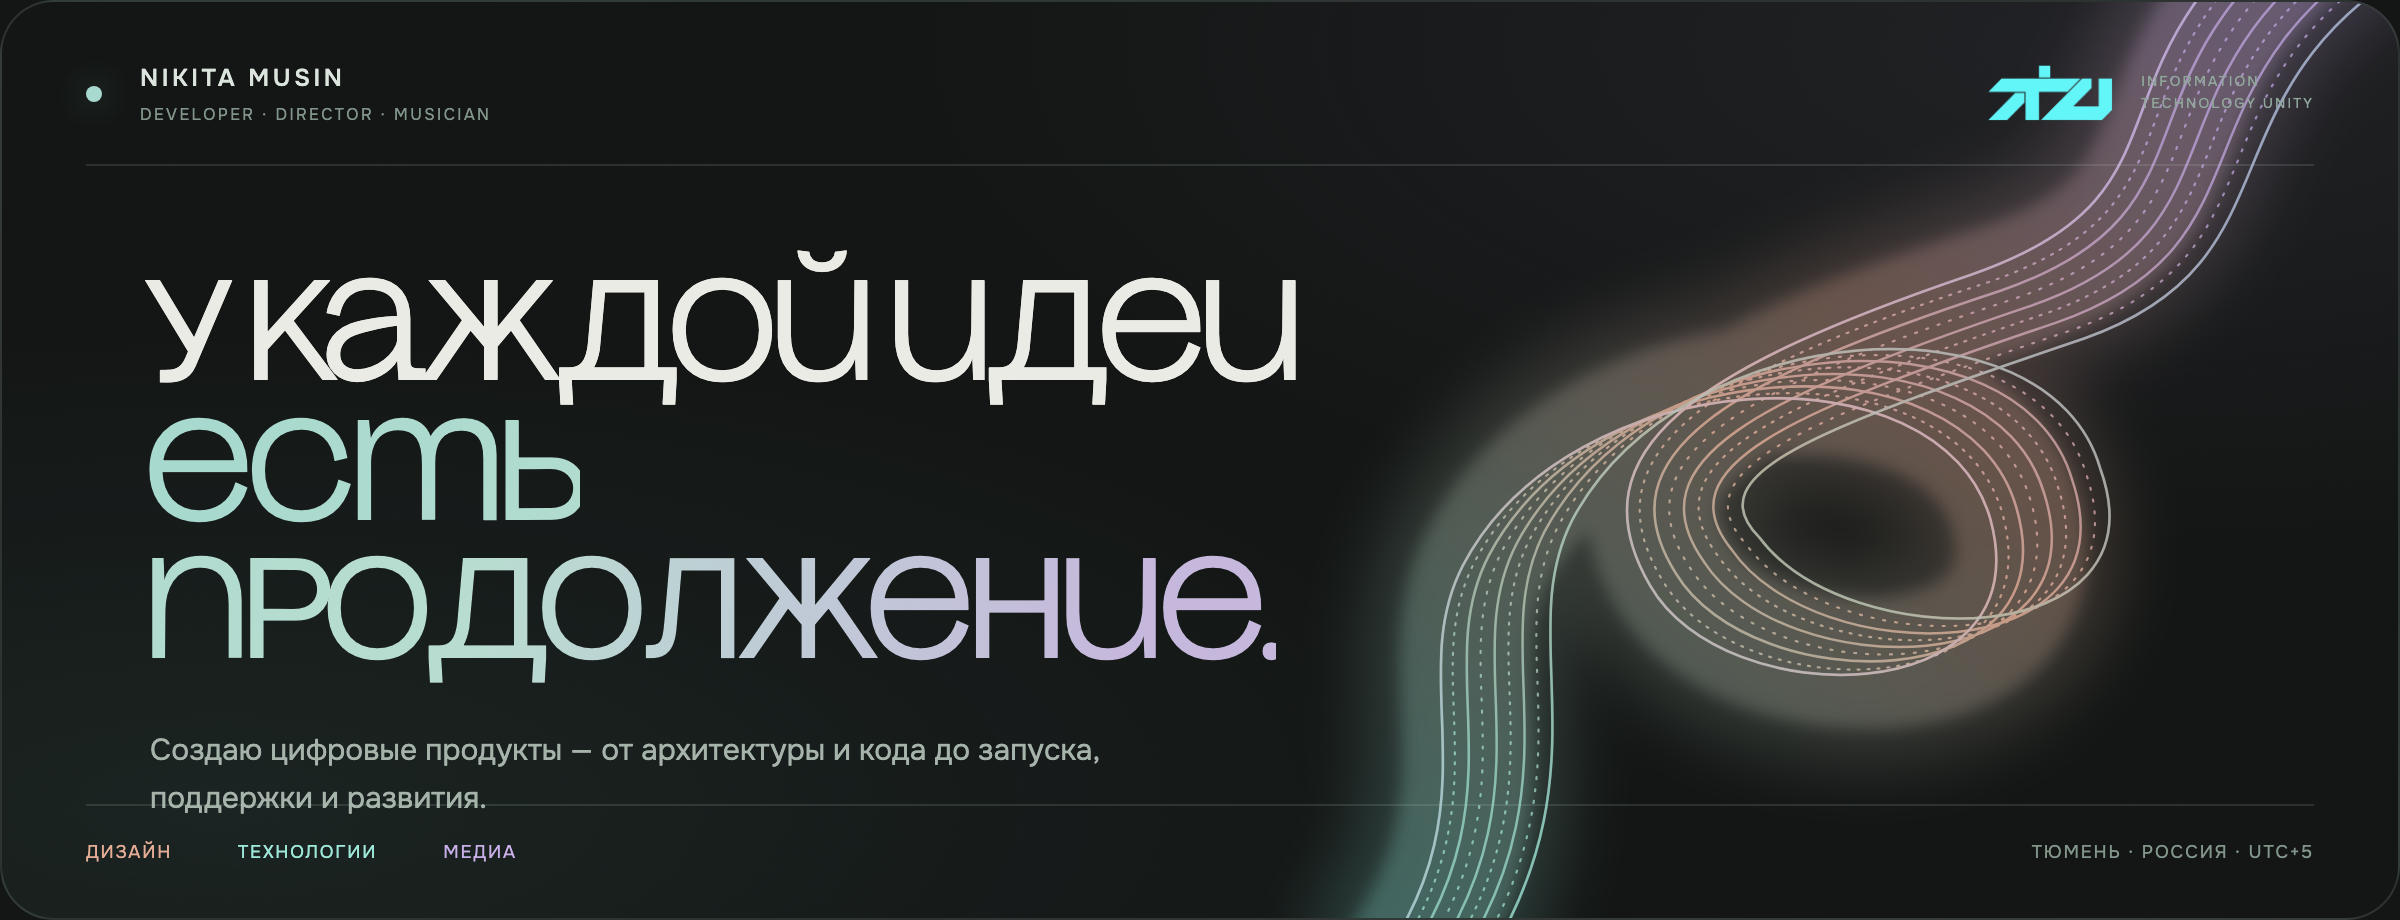
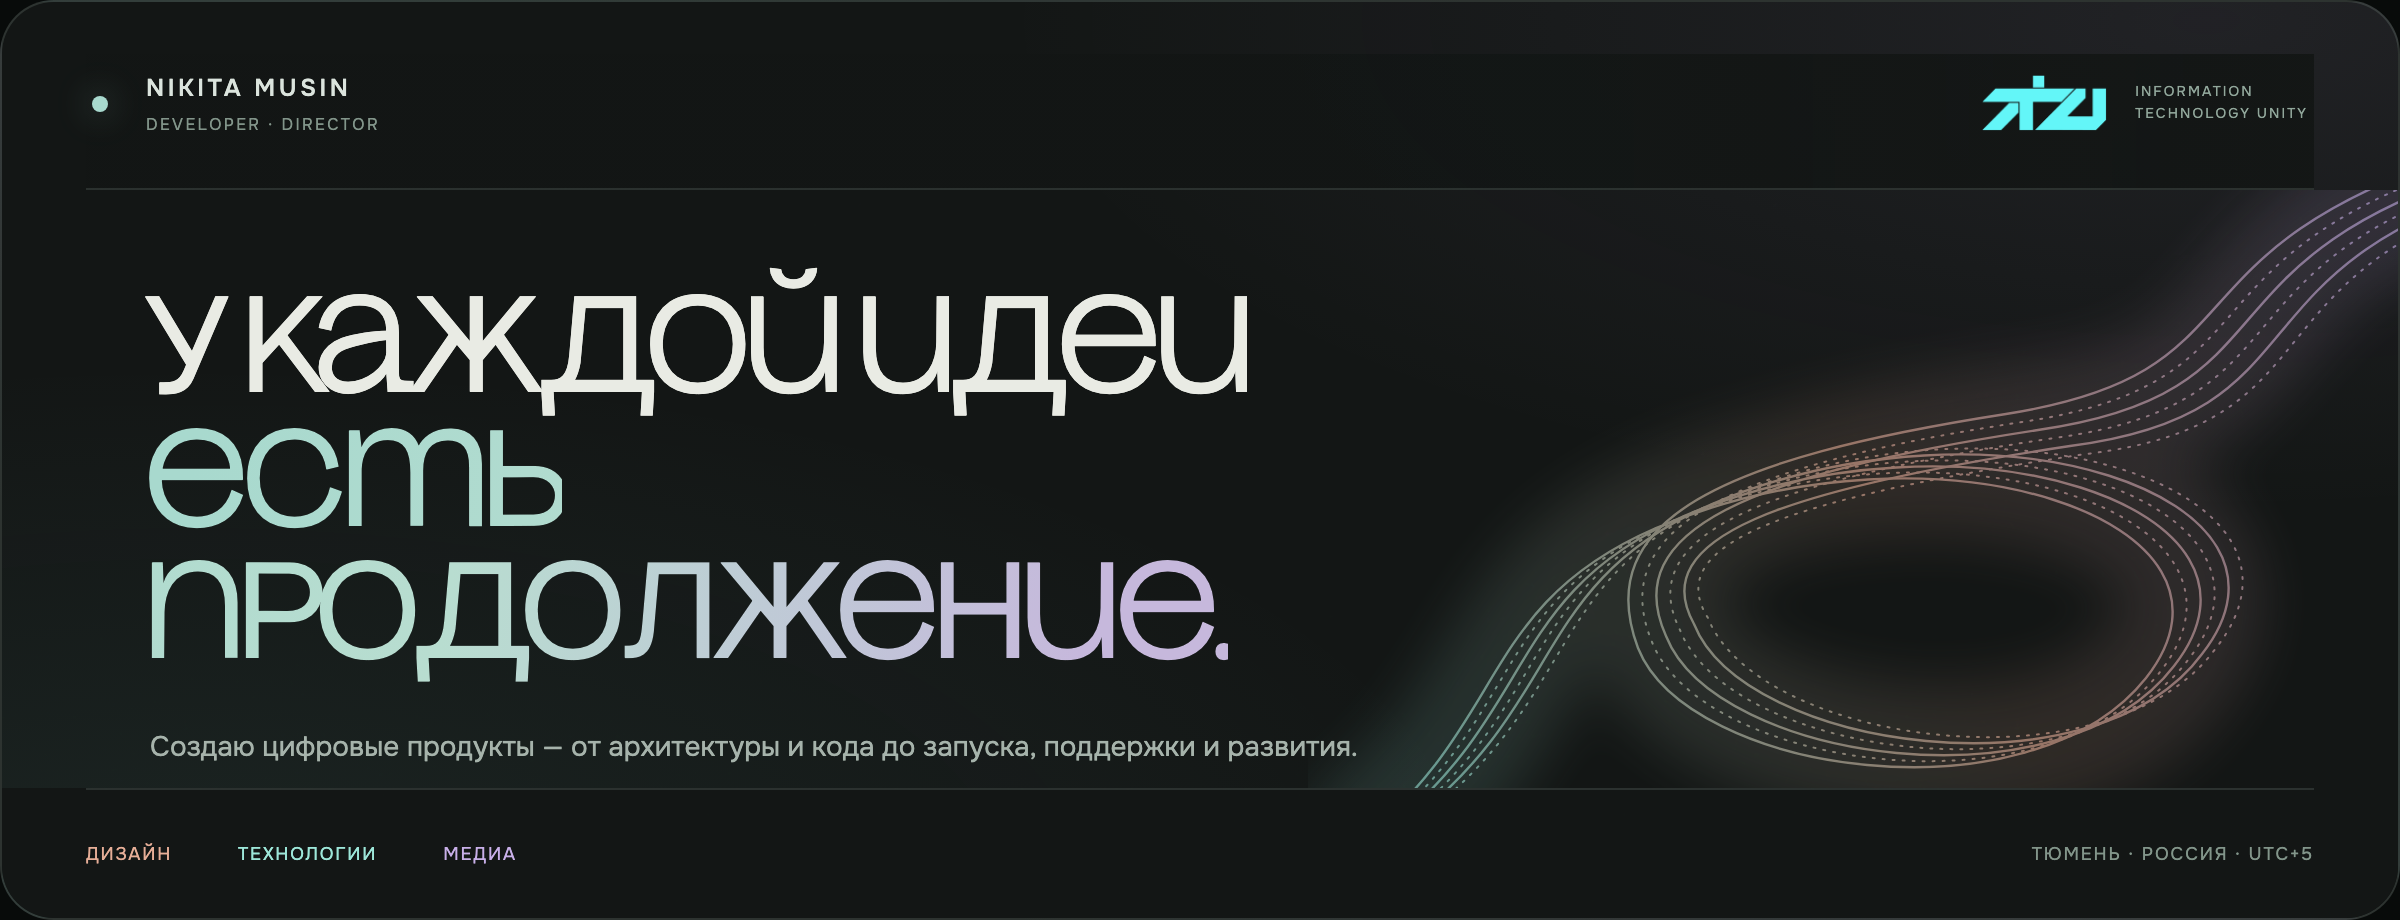
Expand ITUnity profile visuals

diff --git a/README.md b/README.md
@@ -8,17 +8,19 @@
   <a href="https://itunity.dev/">ITUnity</a>
   &nbsp;·&nbsp;
   <a href="https://t.me/general_itu">Telegram</a>
-  &nbsp;·&nbsp;
-  <a href="https://nickihysterics.ru/">Музыка</a>
 </p>
 
 <br>
 
 ## обо мне
 
-Я — **Никита Мусин**. Разработчик, директор ITU и музыкант.
+Я — **Никита Мусин**. Разработчик и директор ITU.
 
 Проектирую цифровые продукты целиком: разбираюсь в задаче, собираю архитектуру и интерфейс, пишу код, запускаю и продолжаю развивать систему после релиза.
+
+<p align="center">
+  <img src="./assets/capabilities.png" width="100%" alt="Архитектура, разработка и запуск цифровых продуктов">
+</p>
 
 ## ITU
 
@@ -26,27 +28,18 @@
 
 [Открыть itunity.dev ↗](https://itunity.dev/)
 
-## подход
-
-**01 / Сначала задача**<br>
-Технология имеет смысл только тогда, когда решает реальную проблему.
-
-**02 / Одна система**<br>
-Дизайн, код, контент и инфраструктура должны работать как единое целое.
-
-**03 / После запуска**<br>
-Релиз — не финал. Хороший продукт выдерживает изменения и становится сильнее со временем.
-
 ## технологии
 
-`Python` · `Django` · `FastAPI` · `PostgreSQL` · `Redis` · `Celery` · `Docker` · `JavaScript` · `WebGL` · `Linux`
+<p align="center">
+  <img src="./assets/stack.png" width="100%" alt="Python, Django, FastAPI, PostgreSQL, Redis, Celery, JavaScript, WebGL, Docker и Linux">
+</p>
 
 ## на связи
 
 По вопросам разработки и сотрудничества — [Telegram](https://t.me/general_itu) или [itunity.dev](https://itunity.dev/).
 
-<br>
-
 <p align="center">
-  <sub>Тюмень · Россия · UTC+5</sub>
+  <a href="https://itunity.dev/#contact">
+    <img src="./assets/contact.png" width="100%" alt="Обсудим задачу — Telegram и ITUnity">
+  </a>
 </p>
